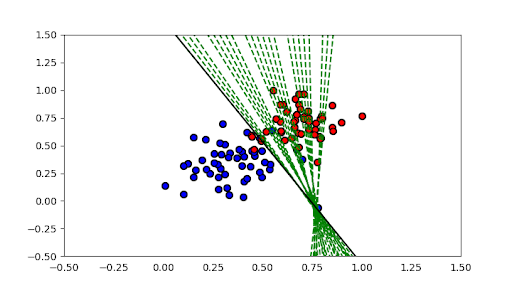
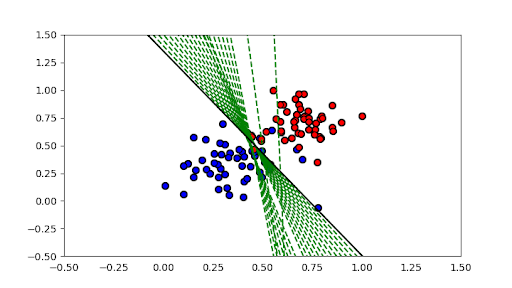
Code and Output Updated

Changed region(s): [[0.2812, 0.125, 0.7188, 0.9062]]

diff --git a/Perceptron_Algorithm/Perceptron_Algo.py b/Perceptron_Algorithm/Perceptron_Algo.py
@@ -19,7 +19,7 @@ def prediction(X, W, b):
 
 def perceptronStep(X, y, W, b, learn_rate = 0.01):
     for i in range(len(X)):
-        pred = prediction(X,W,b)
+        pred = prediction(X[i],W,b)
         if y[i]-pred == 1:
             for j in range(len(W)):
                 W[j]+=X[i][j]*learn_rate
